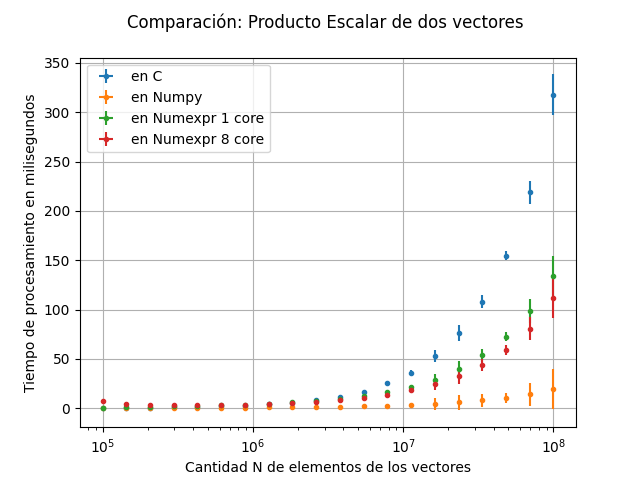
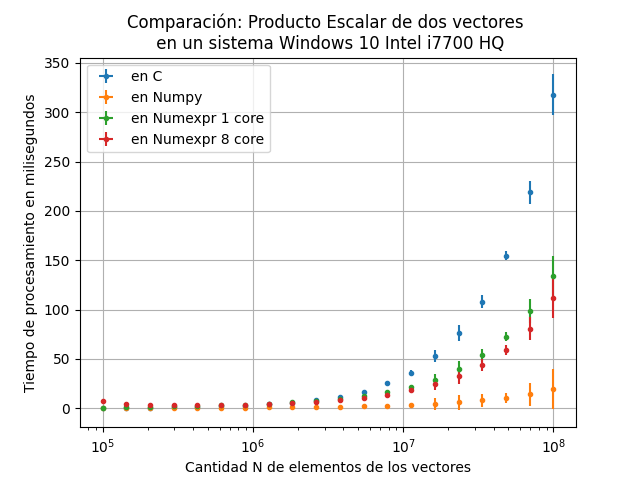
ordenando windows version

Changed region(s): [[0.25, 0.0625, 0.7812, 0.125]]

diff --git a/Comparaciones/graf.py b/Comparaciones/graf.py
@@ -45,7 +45,7 @@ plt.errorbar(N, x_ne_mc, yerr=x_std, xerr=0, fmt=".",label='en Numexpr 8 core')
 plt.legend(loc='upper left')
 plt.xscale('log')
 plt.grid()
-plt.title('Comparación: Producto Escalar de dos vectores \n')
+plt.title('Comparación: Producto Escalar de dos vectores \n en un sistema Windows 10 Intel i7700 HQ')
 plt.xlabel('Cantidad N de elementos de los vectores')
 plt.ylabel('Tiempo de procesamiento en milisegundos')
 plt.savefig("BenchmarkDotprod.png")

diff --git a/Comparaciones/prod_escalar_unix.cpp b/Comparaciones/prod_escalar_unix.cpp
@@ -117,7 +117,7 @@ clock_gettime(CLOCK_REALTIME, &begin);
  long nanoseconds = end.tv_nsec - begin.tv_nsec;
  double elapsed = 1000*seconds + nanoseconds*1e-6;
     
- temp[k]= elapsed
+ temp[k]= elapsed;
  }
 
 	free (vectorA);
